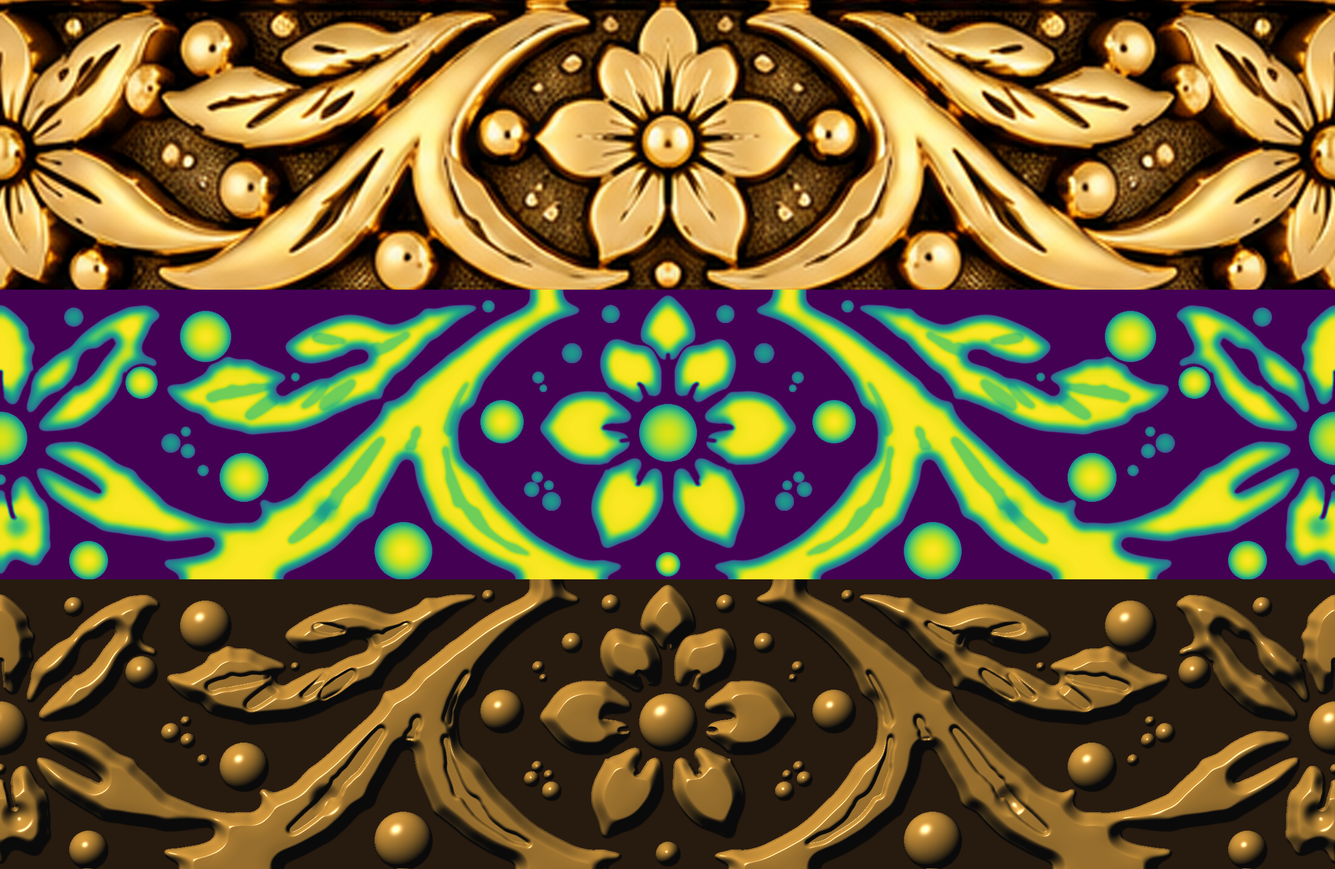
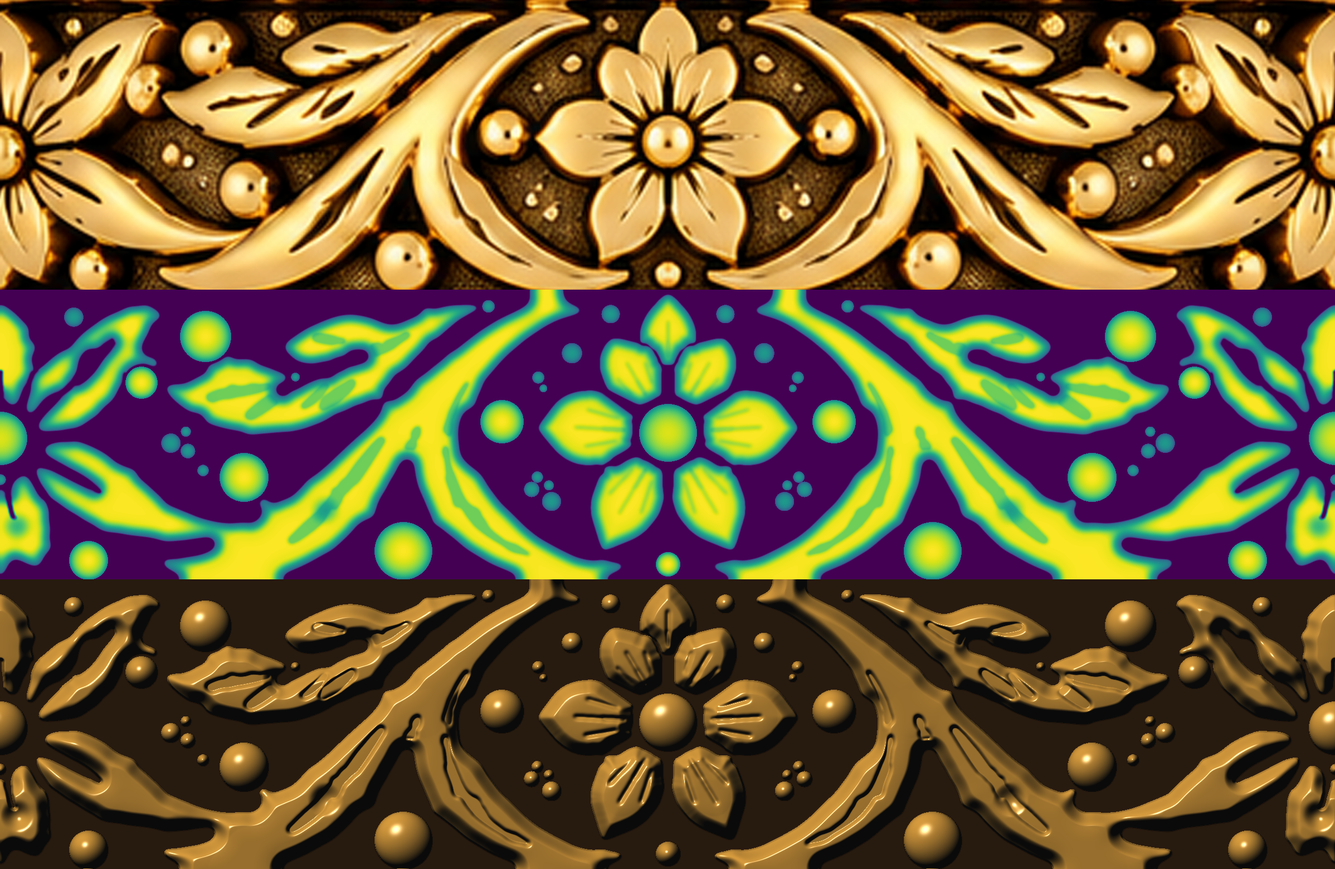
Band relief v4: centre flower polish (clean tapered petals, wedge gaps, fine veins); replaces maps/band_period.png + preview

Changed region(s): [[0.4015, 0.3385, 0.5868, 0.6462], [0.4015, 0.7077, 0.5868, 0.9538]]

diff --git a/tools/wip_v3/stage5.py b/tools/wip_v3/stage5.py
@@ -1,8 +1,9 @@
-# stage 5 (WIP): stage4 + centre-flower polish. Output: /tmp/band_v3_out/band_period_v4.png (NOT approved; maps/ is still v3)
+# stage 4: per-region smoothed relief, grooves, domes, symmetrize, write period + previews
 exec(open('tools/wip_v3/stage3.py').read())
-# centre-flower polish (no slit bites, pointed tips, midribs, pillowy petals)
+# stage5: centre-flower polish (no slit bites, pointed tips, midribs, pillowy petals)
 
 # --- rebuild centre petals as clean convex leaf shapes (fills the slit bites in the inner ends) ---
+TAPER_W0=3.0; TAPER_SLOPE=0.78; SMOOTH_HULL=3.0   # leaf taper toward the dome, facet rounding
 WEDGE_LEN=46; WEDGE_W0=4.2                 # 1x px: wedge length from dome edge, half-width at the dome
 CZ0=np.zeros((H2,W2),np.uint8)
 for k in range(3): cv2.circle(CZ0,(int(X(599,k)),int(Y(128))),int(215*S),1,-1)
@@ -12,7 +13,17 @@ for i in cids:
     reg=((lab==i)&(CZ0>0)).astype(np.uint8)
     if reg.sum()<150*S*S: continue
     cs,_=cv2.findContours(reg,cv2.RETR_EXTERNAL,cv2.CHAIN_APPROX_NONE)
-    pts=np.vstack(cs); hm=np.zeros((H2,W2),np.uint8); cv2.fillConvexPoly(hm,cv2.convexHull(pts),1); hulls[i]=hm
+    pts=np.vstack(cs); hm=np.zeros((H2,W2),np.uint8); cv2.fillConvexPoly(hm,cv2.convexHull(pts),1)
+    # taper the inner end toward the dome (leaf shape): half-width <= TAPER_W0 + TAPER_SLOPE*(distance from dome edge)
+    yy_,xx_=np.nonzero(reg); cmx,cmy=xx_.mean(),yy_.mean()
+    k=int(np.argmin([np.hypot(cmx-X(599,kk),cmy-Y(128)) for kk in range(3)])); fx,fy=X(599,k),Y(128)
+    a_=np.arctan2(cmy-fy,cmx-fx); ux,uy=np.cos(a_),np.sin(a_)
+    by0,by1=int(max(fy-215*S,0)),int(min(fy+215*S,H2)); bx0,bx1=int(max(fx-215*S,0)),int(min(fx+215*S,W2))
+    gy_,gx_=np.mgrid[by0:by1,bx0:bx1]; tt=(gx_-fx)*ux+(gy_-fy)*uy-(26*S); pp=np.abs(-(gx_-fx)*uy+(gy_-fy)*ux)
+    keep=(pp<=(TAPER_W0*S+TAPER_SLOPE*np.maximum(tt,0)))&(tt>-2*S)
+    sub=hm[by0:by1,bx0:bx1]; sub[~keep]=0
+    hm=(g(hm.astype(np.float32),SMOOTH_HULL*S)>0.46).astype(np.uint8)            # round the hull facets
+    hulls[i]=hm
 ids=list(hulls); dts=[ndi.distance_transform_edt(lab!=i) for i in ids]
 anyh=np.zeros((H2,W2),bool)
 for hm in hulls.values(): anyh|=hm>0
@@ -69,7 +80,7 @@ CZ=np.zeros((H2,W2),np.uint8)
 for k in range(3): cv2.circle(CZ,(int(X(599,k)),int(Y(128))),int(215*S),1,-1)
 sl=sl*(1-CZ)                                   # no slit carving inside the centre flower (it bit the petals)
 HS=np.zeros((H2,W2),np.float32)
-CPET=[]                                        # (label id, centroid) of centre petals
+CPET=[]                                        # (label id, tile k) of centre petals
 PADp=40*S
 for i,o in enumerate(ndi.find_objects(lab),1):
     if o is None: continue
@@ -102,13 +113,14 @@ for (i,cmx,cmy) in CPET:
     inr=reg[py,px]
     if not inr.any(): continue
     t0=ts[np.argmax(inr)]; t1=ts[len(inr)-1-np.argmax(inr[::-1])]
-    for da,f0,f1,wk in ((0,6,.62,1.0),(0.17,9,.42,.6),(-0.17,9,.42,.6)):   # centre vein + two fine side veins
+    for da,f0,f1,wk in ((0,6,.62,1.0),(0.22,14,.52,.6),(-0.22,14,.52,.6)):   # centre vein + two fine side veins
         a0=t0+f0*S; a1=t0+f1*(t1-t0)
         vx,vy=np.cos(ang+da),np.sin(ang+da)
         for t in np.arange(a0,a1,S*0.5):
             u=(t-a0)/(a1-a0); w=(1.8*(1-u)+0.5)*wk*S/2
             cv2.circle(rib,(int(fx+vx*t),int(fy+vy*t)),max(1,int(round(w))),1,-1)
-rib=np.clip(g(rib,1.6*S)*2.2,0,1)
+PMk=cv2.erode(np.isin(lab,[c[0] for c in CPET]).astype(np.uint8),ell(10*S)).astype(np.float32)   # keep veins off the petal outline
+rib=np.clip(g(rib,1.6*S)*2.2,0,1)*g(PMk,1.5*S)
 HS*=(1-0.15*rib)
 HS=g(HS,0.7*S/2)
 

diff --git a/tools/wip_v3/README.md b/tools/wip_v3/README.md
@@ -5,6 +5,6 @@ stage1: exact seamless period (side flower axis -> centre flower axis, mirrored,
 stage2: bead circle refinement (fits well on all 7 beads).
 stage3: carve beads/centre domes, marker watershed into separate petals/leaves (51 labels), label overlay.
 stage4: per-region smoothed SDF relief, thin slit grooves, veins, bead/dot/centre domes, symmetrize -> /tmp/band_v3_out/band_period_v3.png (16-bit 2396x520, exact seamless period) + previews.
-stage5 (WIP 2026-10-29): centre-flower polish on top of stage4. Run from repo root: mkdir -p /tmp/band_v3_out; python3 tools/wip_v3/stage2.py; python3 tools/wip_v3/stage5.py -> /tmp/band_v3_out/band_period_v4.png (+ v4_zoom_B.png). Centre petals rebuilt as convex leaf shapes (fills slit bites), no slit carving in centre zone, sigma 2.0S for pointed tips, wedge gaps near dome, one shallow tapered vein per petal. NOT approved; maps/band_period.png is still v3. Still to polish: petals stop short of the dome, only 1 vein per petal (reference has 2-3 fine radiating lines), L/R tips blunt.
+stage5 (2026-10-29, APPROVED-TO-REPLACE: maps/band_period.png is now the stage5 output): centre-flower polish on top of stage4. Run from repo root: mkdir -p /tmp/band_v3_out; python3 tools/wip_v3/stage2.py; python3 tools/wip_v3/stage5.py -> /tmp/band_v3_out/band_period_v4.png (+ v4_zoom_B.png). Centre petals rebuilt as convex leaf shapes (fills slit bites), no slit carving in centre zone, sigma 2.0S for pointed tips, wedge gaps near dome, one shallow tapered vein per petal. NOT approved; maps/band_period.png is still v3. Still to polish: petals stop short of the dome, only 1 vein per petal (reference has 2-3 fine radiating lines), L/R tips blunt.
 TODO: user approval, then replace maps/band_period.png, wire into band() in geometry.js (continuous 0..1 height), Wide band, Solitaire, STLs.
 NOTE: maps/band_period.png and maps/band_preview.png are now v3 (approved by user 2026-10-29). maps/band_height.png is still the old v2 window map (not used by anything); tools/band_heightmap.py is the old v2 generator.
